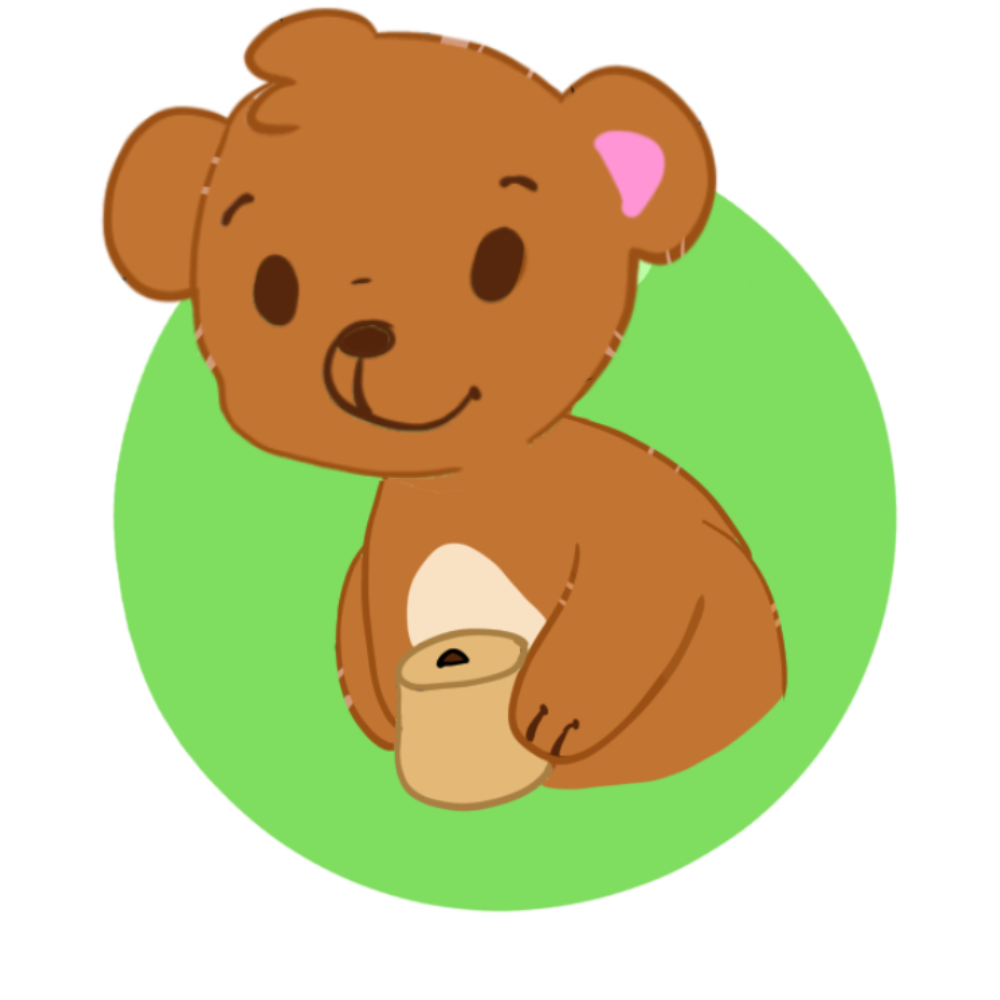
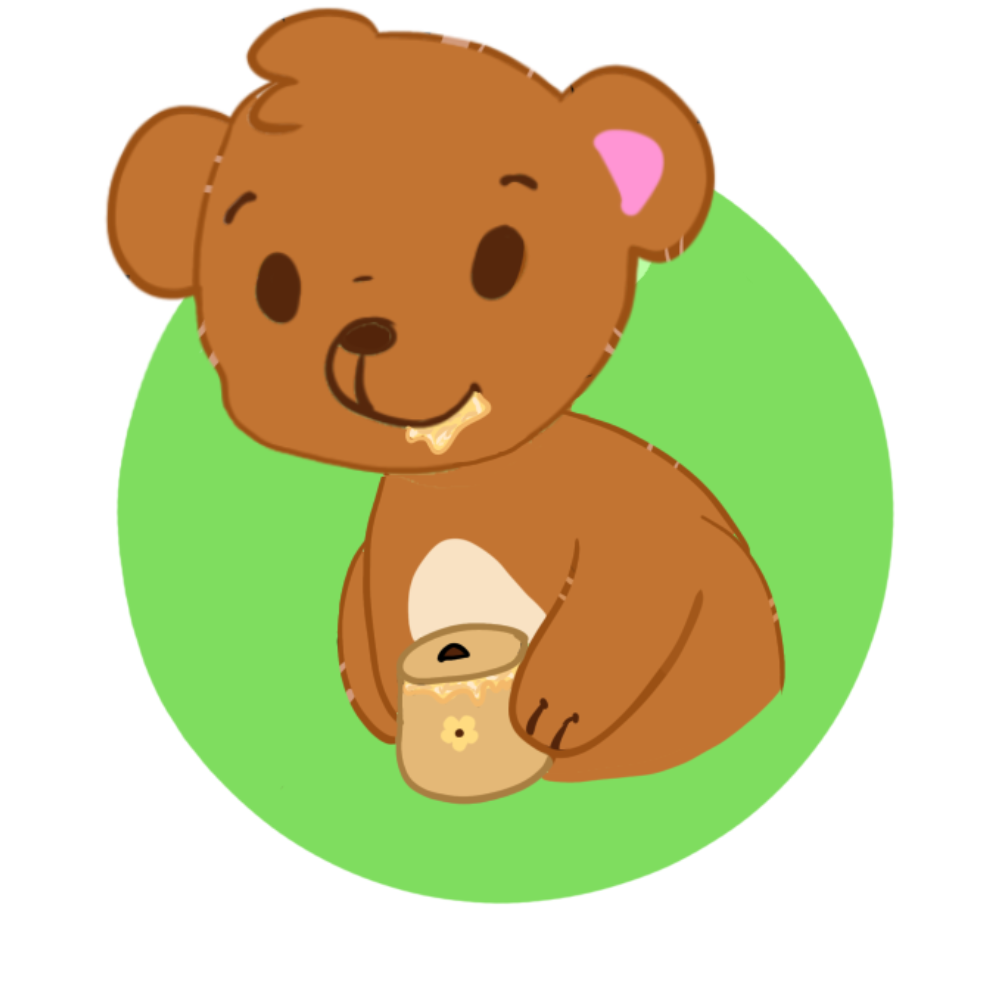
list stuff

diff --git a/src/App.js b/src/App.js
@@ -2,20 +2,37 @@ import logo from './logo.svg';
 import './App.css';
 
 function App() {
+  let goodIngredients = ["a", "b"];
+  let badIngredients = ["formaldehyde", "idk"];
+  for(var i = 0; i<badIngredients.length; i++)
+  {
+    badIngredients[i] = "x " + badIngredients[i];
+  }
   return (
     <div className="App">
      <div className="App-name">
       nectar
      </div>
      <div className = "App-bear-hover">
-      <img className = "App-bear-image" src = "yellowbear.PNG" alt = "bear"/>
+      <img className = "App-bear-image" src = "greenbear.PNG" alt = "bear"/>
       <div className>
         score: 83/100
       </div>
      </div>
-      <body className='App-body'>
-        const goodIngredients = ["water", "vitaminc"];
-        const badIngredients = ["formaldehyde, idk"];
+      <body>
+        <ul className = 'App-display-good'>
+          {goodIngredients.map((value, index) => {
+          return <li key={index}>{value}</li>
+        })}
+        </ul>
+
+        <ul className = 'App-display-bad'>
+          {badIngredients.map((value, index) => {
+          return <li key={index}>{value}</li>
+        })}
+        </ul>
+      
+
       </body>
        
     </div>

diff --git a/src/App.css b/src/App.css
@@ -22,7 +22,47 @@
   position: absolute;
   border-radius: 0 0 10px 0
 }
-.App-body{
+
+.App-display-good
+{
+  padding-top: 71vh;
+  font-size: medium;
+  list-style: none;
+  padding-right: 0vh;
+  padding-left: 0.5vh;
+  max-width: fit-content;
+  min-width: fit-content;
+  position: absolute;
+}
+
+.App-display-good li{
+  text-align: left;
+}
+
+.App-display-good li:before{
+  padding-left: 1vh;
+  padding-right: 0;
+  content: '✓ ';
+}
+
+.App-display-bad{
+  margin-top: 74vh;
+  padding-right: 2vh;
+  margin-left: 20vh;
+  padding-left: 4vh;
+  font-size: medium;
+  list-style: none;
+  position: absolute;
+}
+
+.App-display-bad li.before{
+  margin: 4vh;
+  padding: 4vh;
+  content: 'hhighgjikihyuh';
+}
+
+.App-display-bad li{
+  text-align: left;
 }
 
 .App-bear-image{
@@ -35,7 +75,7 @@
     position: absolute;
     margin-top: 20vh;
     align-items: center;
-    margin-left: 18%;
+    margin-left: 10%;
   }
 
 .App-bear-hover div{
@@ -55,7 +95,7 @@
 }
 
 .App-bear-hover:hover{
-  cursor:pointerl
+  cursor:pointer
 }
 
 .App-bear-hover:hover div{
